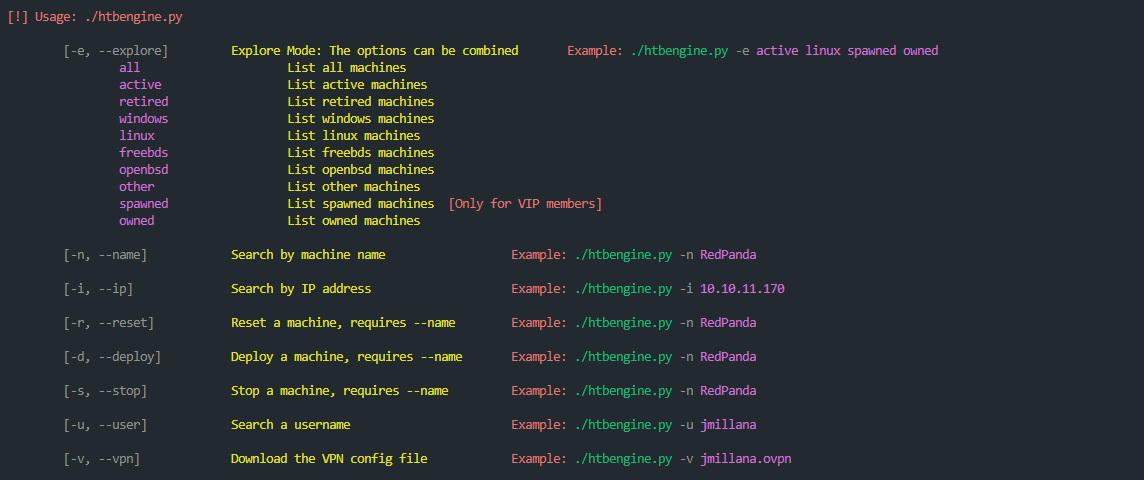
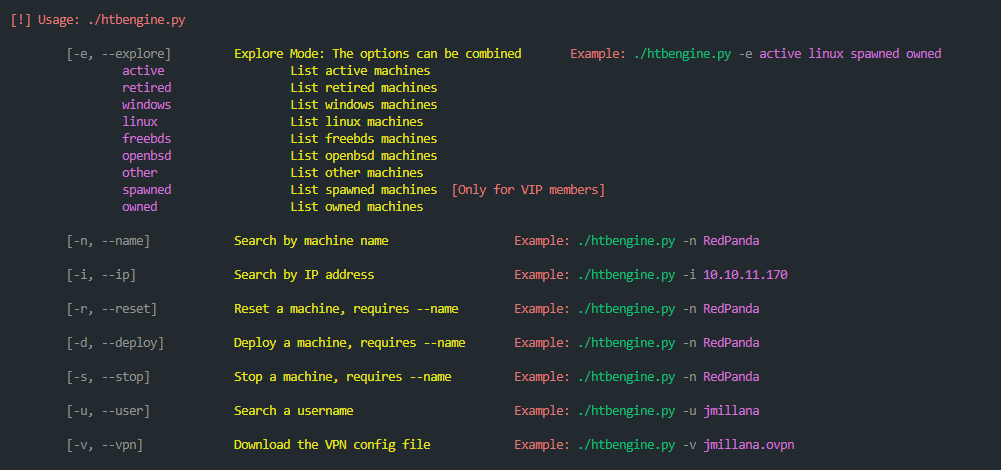
Remove "all" option from --explore
The "all" option is used by default, hence there is no need to explicitly add it

diff --git a/htbengine/menus/help.py b/htbengine/menus/help.py
@@ -16,7 +16,7 @@ def help_menu() -> None:
         f" {colored('-e', colors.GREY)}"
         f" {colored('active linux spawned owned', colors.MAGENTA)}"
     )
-    for machine_status in ["all", "active", "retired"]:
+    for machine_status in ["active", "retired"]:
         print(
             f"\t\t{colored(machine_status, colors.MAGENTA)}"
             "\t\t\t"
